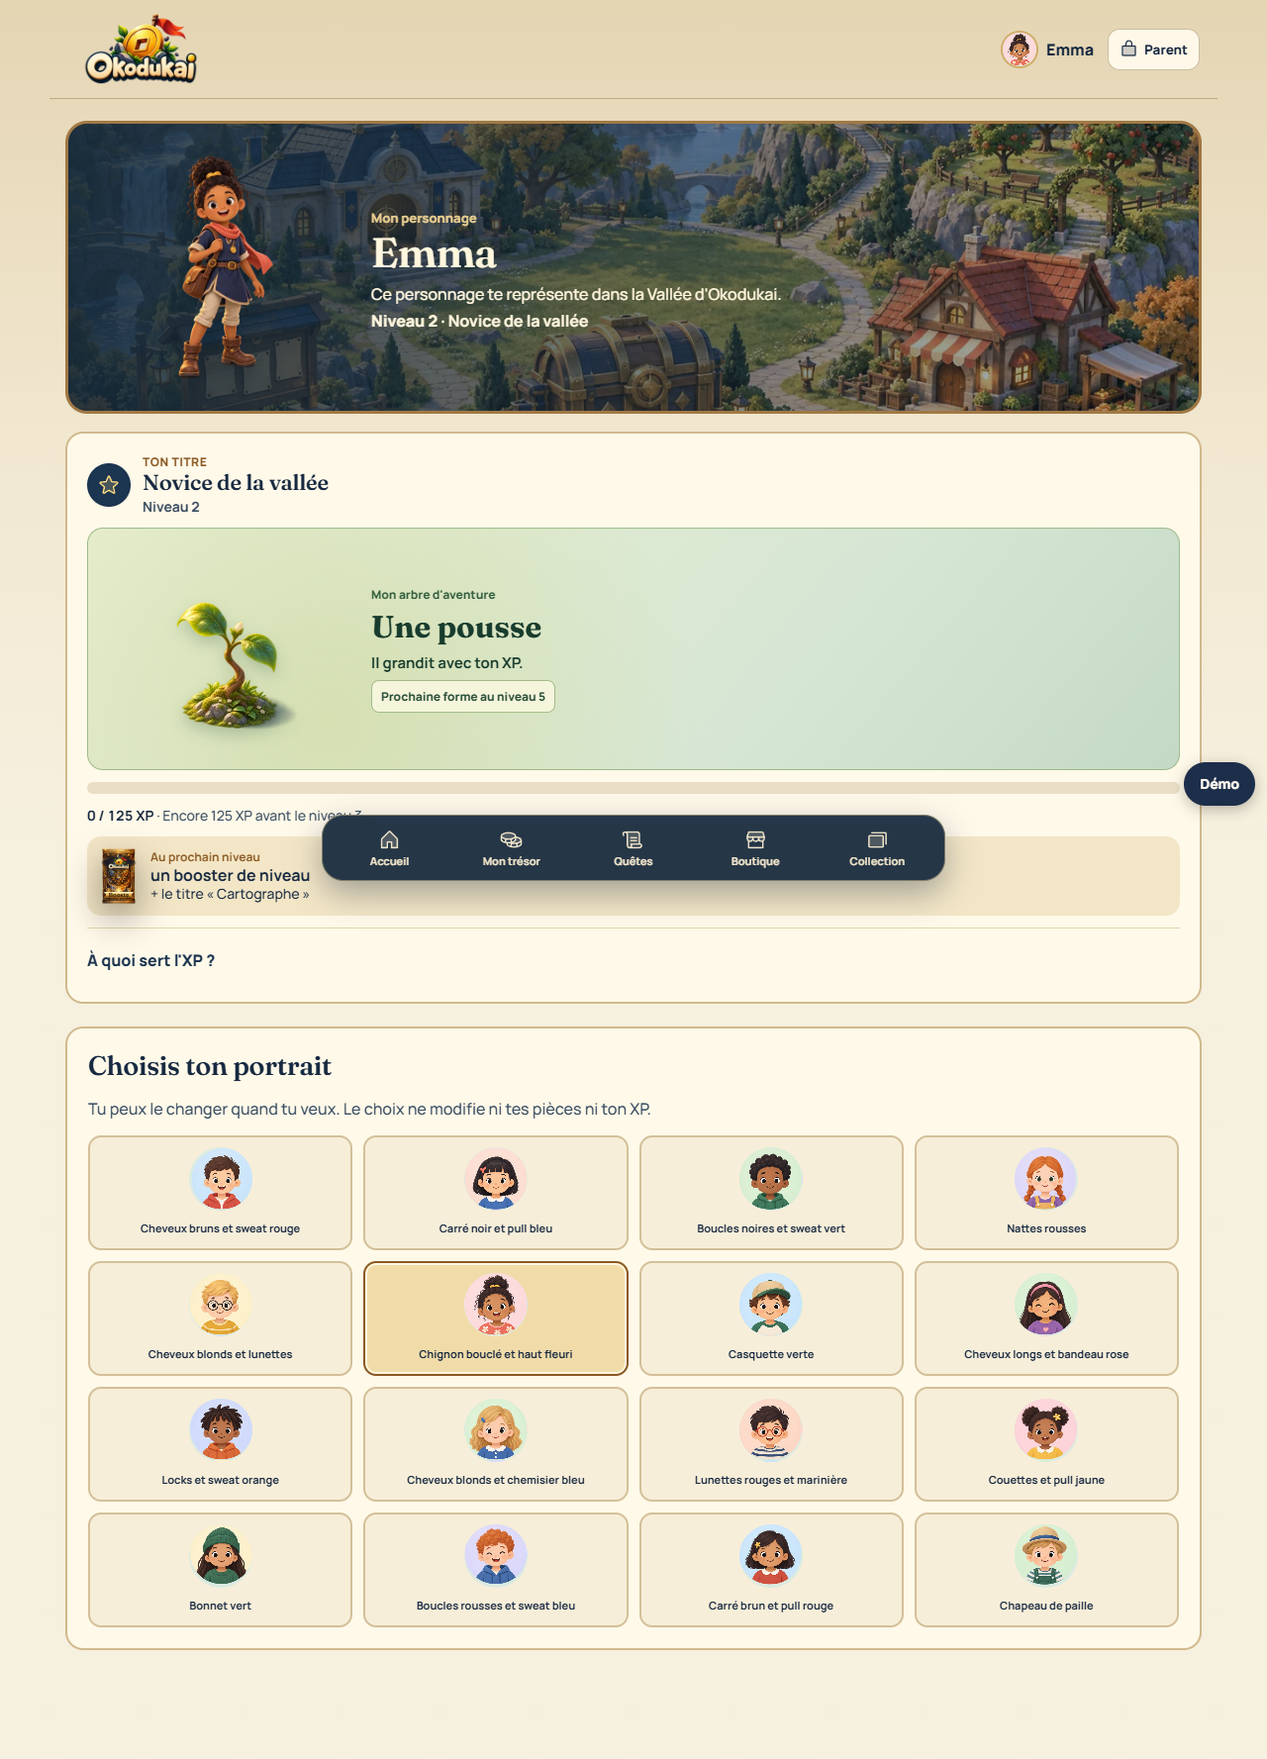
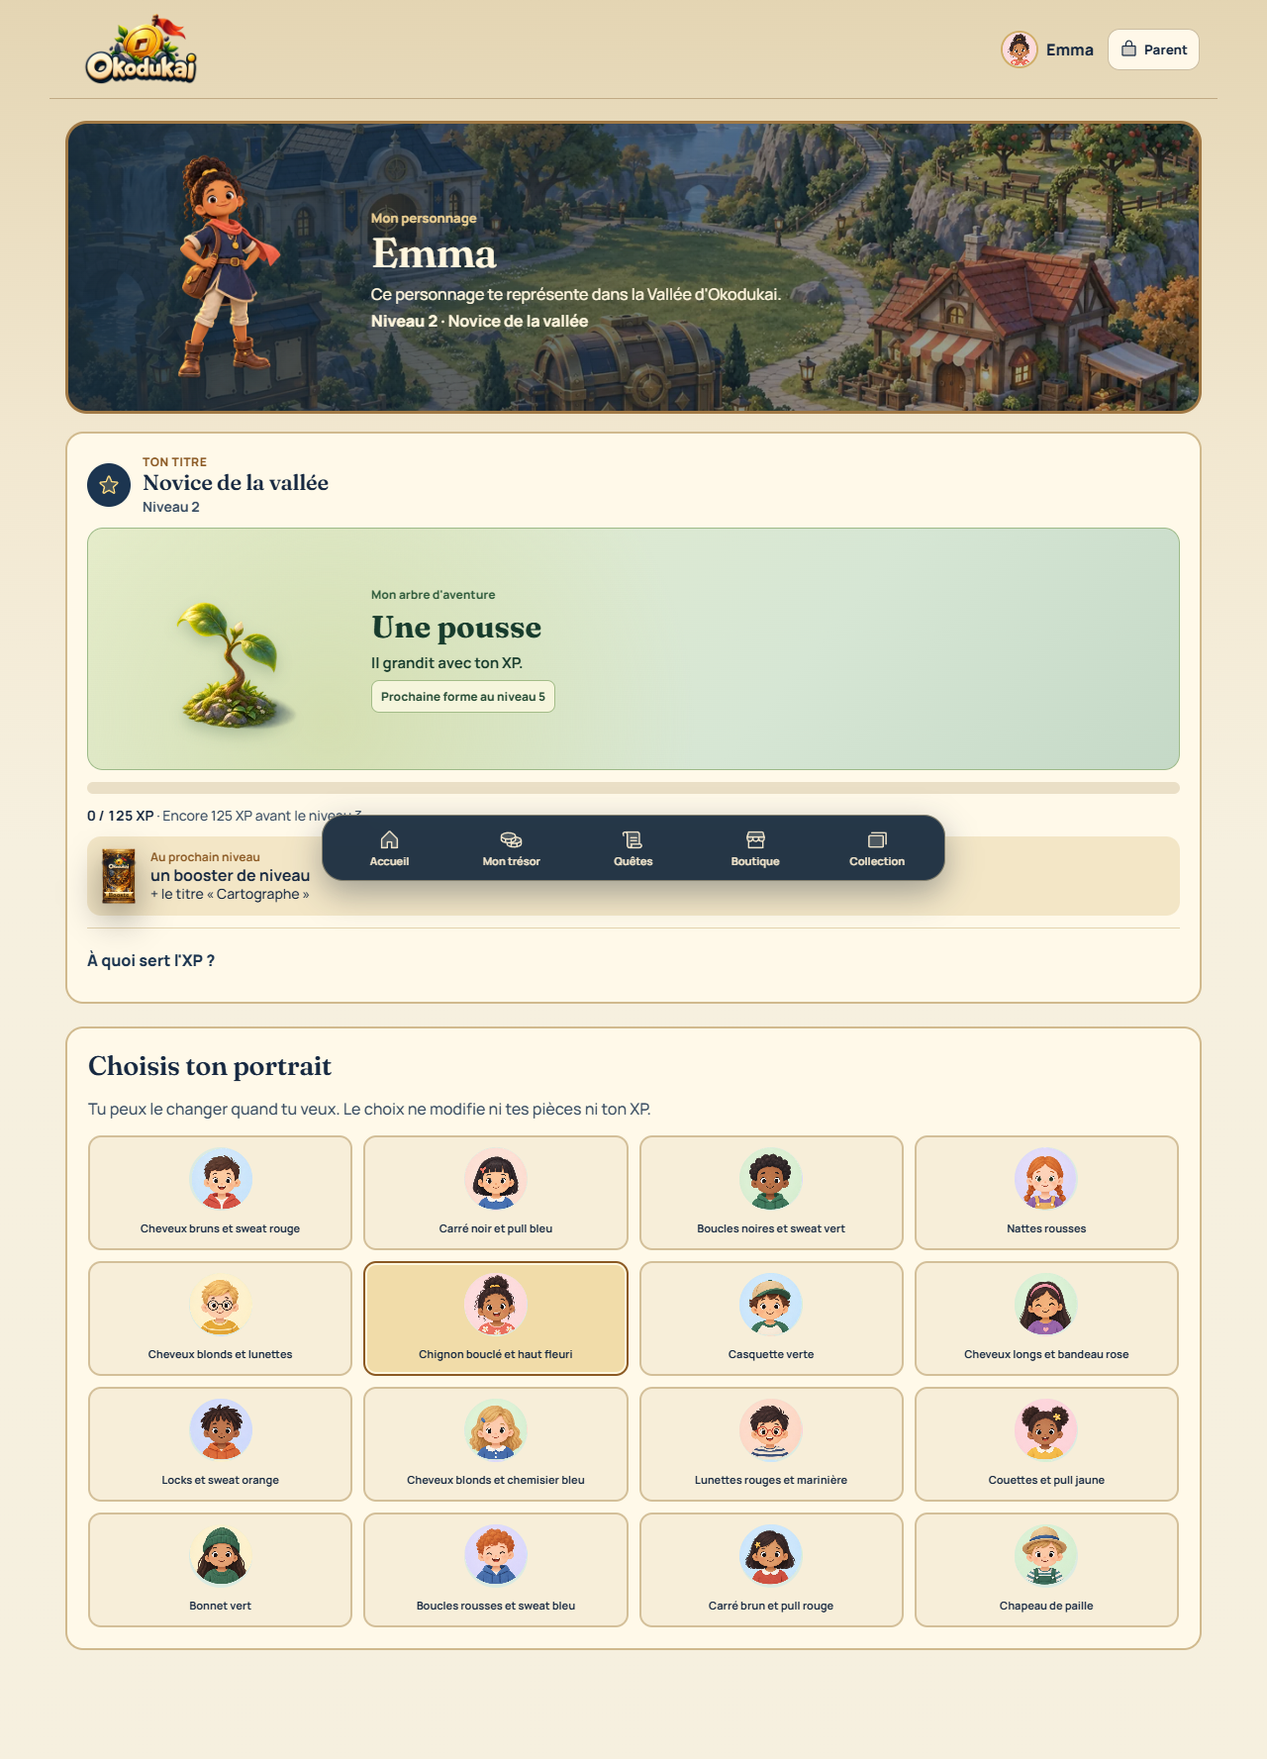
Add expressive child characters to village and lessons

Changed region(s): [[0.125, 0.0929, 0.2188, 0.2167], [0.9375, 0.4333, 1.0, 0.4643]]

diff --git a/apps/web/src/styles/child-world.css b/apps/web/src/styles/child-world.css
@@ -180,9 +180,13 @@
 .learning-module-copy { display: grid; gap: 4px; }
 .learning-module-copy strong { font: 700 22px/1.17 var(--font-display); color: var(--ink); }
 .learning-module-copy small { color: var(--ink-soft); font-weight: 700; }
-.learning-detail { max-width: 840px; margin-inline: auto; }
-.learning-detail-scene { width: 100%; max-height: 265px; object-fit: cover; border: 3px solid #a77a45; border-radius: 16px; }
-.learning-detail .card { border: 2px solid #bc9b66; background: #fff7e5; }
+.learning-detail { width: min(100%, 840px); margin-inline: auto; }
+.learning-detail-stage { position: relative; height: 300px; overflow: hidden; border: 3px solid #a77a45; border-radius: 18px; background: #203a4e; box-shadow: 0 10px 24px rgba(38, 44, 38, .18); }
+.learning-detail-stage::after { content: ''; position: absolute; inset: 0; pointer-events: none; background: linear-gradient(90deg, transparent 55%, rgba(19, 35, 47, .28)); }
+.learning-detail-scene { display: block; width: 100%; height: 100%; object-fit: cover; }
+.learning-detail-character { position: absolute; z-index: 1; right: 2%; bottom: -14px; width: 230px; height: 290px; object-fit: contain; object-position: bottom center; filter: drop-shadow(0 9px 8px rgba(16, 29, 37, .4)); }
+.learning-detail-character .avatar { width: 110px; height: 110px; }
+.learning-detail .card { width: min(100%, 700px); align-self: center; border: 2px solid #bc9b66; background: #fff7e5; }
 .lesson-head { position: relative; min-height: 86px; padding-left: 100px; overflow: hidden; }
 .lesson-head-art { position: absolute; left: 8px; top: 7px; width: 78px; height: 72px; object-fit: cover; border-radius: 8px; }
 
@@ -240,6 +244,9 @@
   .learning-module-art { width: 90px; height: 90px; }
   .learning-module-copy strong { font-size: 16px; }
   .learning-module .pill { grid-column: 2; justify-self: start; }
+  .learning-detail-stage { height: 225px; }
+  .learning-detail-character { right: -8px; bottom: -10px; width: 138px; height: 205px; }
+  .learning-detail-character .avatar { width: 80px; height: 80px; }
   .learn-page > .page-scene-title { min-height: 175px; padding: 10px; }
   .parent-child-dialog { padding: 14px; }
   .parent-child-option { align-items: start; flex-wrap: wrap; }

diff --git a/apps/web/src/pages/child/Profile.tsx b/apps/web/src/pages/child/Profile.tsx
@@ -32,7 +32,7 @@ export function Profile() {
   }
 
   return <div className="child-profile-page">
-    <header className="character-scene"><div className={session.child.avatarId === "aventurier-06" || session.child.avatarId === "aventurier-05" ? "character-portrait character-portrait--figure" : "character-portrait"}><ChildCharacter avatarId={session.child.avatarId} className="character-figure-art"/></div><div><p className="scene-kicker">{t.kicker}</p><h1>{session.child.displayName}</h1><p>{t.intro}</p>{level && <p className="character-level-line"><strong>{t.level} {level.level}</strong>{levelTitle(level) && <span> · {levelTitle(level)}</span>}</p>}</div></header>
+    <header className="character-scene"><div className={session.child.avatarId === "aventurier-06" || session.child.avatarId === "aventurier-05" ? "character-portrait character-portrait--figure" : "character-portrait"}><ChildCharacter avatarId={session.child.avatarId} pose="proud" className="character-figure-art"/></div><div><p className="scene-kicker">{t.kicker}</p><h1>{session.child.displayName}</h1><p>{t.intro}</p>{level && <p className="character-level-line"><strong>{t.level} {level.level}</strong>{levelTitle(level) && <span> · {levelTitle(level)}</span>}</p>}</div></header>
     {level && <div id="xp" className="character-xp"><XpGuide level={level} /></div>}
     <section className="character-wardrobe" aria-labelledby="wardrobe-title"><div className="section-heading"><h2 id="wardrobe-title">{t.choose}</h2></div><p>{t.help}</p>{error && <p className="form-error" role="alert">{error}</p>}<div className="character-roster">{AVAILABLE_AVATARS.map((avatarId, index) => <button className={session.child.avatarId === avatarId ? "character-choice character-choice--selected" : "character-choice"} type="button" key={avatarId} disabled={saving} onClick={() => void choose(avatarId)} aria-label={avatarLabels[index]} aria-pressed={session.child.avatarId === avatarId}><Avatar avatarId={avatarId} /><span>{avatarLabels[index]}</span></button>)}</div></section>
   </div>;

diff --git a/apps/web/src/pages/child/Home.tsx b/apps/web/src/pages/child/Home.tsx
@@ -93,7 +93,7 @@ export function Home() {
         <picture className="village-landscape" aria-hidden="true"><source media="(max-width: 640px)" srcSet="/assets/backgrounds/child-hub-tall-720.webp 720w, /assets/backgrounds/child-hub-tall-1080.webp 1080w" sizes="100vw"/><img src="/assets/backgrounds/child-hub-wide-1280.webp" srcSet="/assets/backgrounds/child-hub-wide-1280.webp 1280w, /assets/backgrounds/child-hub-wide-1920.webp 1920w" sizes="(max-width: 1180px) 100vw, 1180px" alt="" fetchPriority="high" /></picture>
         <span className="village-light" aria-hidden="true" />
         {places.map((place) => <Link key={place.key} className={`village-place village-place--${place.key}`} to={place.to} aria-label={`${t.place[place.key][0]} : ${t.place[place.key][1]}`}><span className="village-place-icon"><GameIcon name={place.icon} size={21}/></span><span className="village-place-label">{t.place[place.key][0]}</span>{place.key === "observatory" && statementReady && <span className="village-place-alert">{t.statement}</span>}</Link>)}
-        <Link to="/enfant/profil" className="village-character" aria-label={t.seeCharacter}><ChildCharacter avatarId={session.child.avatarId} className="village-character-art"/><span>{t.character}</span></Link>
+        <Link to="/enfant/profil" className="village-character" aria-label={t.seeCharacter}><ChildCharacter avatarId={session.child.avatarId} pose="happy" className="village-character-art"/><span>{t.character}</span></Link>
       </nav>
     </section>
     <div className="village-dispatch" aria-label={t.happening}>

diff --git a/apps/web/src/pages/child/Learn.tsx b/apps/web/src/pages/child/Learn.tsx
@@ -5,6 +5,7 @@ import { GameIcon } from "../../components/GameIcon";
 import { Lessons } from "../../components/invest/Lessons";
 import { Carnet } from "../../components/finance/Carnet";
 import { ObjectArt } from "../../art/ObjectArt";
+import { ChildCharacter } from "../../components/ChildCharacter";
 import { useAuth } from "../../lib/AuthContext";
 import { defineCopy, useCopy } from "../../i18n";
 
@@ -111,7 +112,10 @@ export function Learn() {
   if (active) {
     return (
       <div className="stack learning-detail">
-        <LearningScene code={active.code} subtitle={active.subtitle} className="learning-detail-scene" />
+        <div className="learning-detail-stage">
+          <LearningScene code={active.code} subtitle={active.subtitle} className="learning-detail-scene" />
+          {session?.kind === "child" && <ChildCharacter avatarId={session.child.avatarId} pose={step === "situation" ? "discovery" : step === "done" ? "proud" : "thinking"} className="learning-detail-character" />}
+        </div>
         <div className="card">
           <p className="text-sm text-faint">{active.subtitle}</p>
           <h1 className="font-display" style={{ fontSize: 22, marginBottom: 16 }}>

diff --git a/apps/web/src/components/ChildCharacter.tsx b/apps/web/src/components/ChildCharacter.tsx
@@ -1,7 +1,9 @@
 import { Avatar } from "./Avatar";
 
-/** Two illustrated poses are matched to their roster portraits; all other portraits remain selectable. */
-export function ChildCharacter({ avatarId, pose = "idle", className = "" }: { avatarId: string; pose?: "idle" | "victory"; className?: string }) {
+/** Illustrated expressions for the two featured characters; other portraits remain selectable. */
+export type CharacterPose = "idle" | "happy" | "proud" | "thinking" | "victory" | "discovery";
+
+export function ChildCharacter({ avatarId, pose = "idle", className = "" }: { avatarId: string; pose?: CharacterPose; className?: string }) {
   const character = avatarId === "aventurier-06" ? "emma" : avatarId === "aventurier-05" ? "lucas" : null;
   if (!character) return <span className={className}><Avatar avatarId={avatarId} size="lg" /></span>;
   return <img

diff --git a/docs/RESTE_A_FAIRE.md b/docs/RESTE_A_FAIRE.md
@@ -16,7 +16,7 @@
 - Reprise de 04 h 05 : galerie, chambre du trésor, observatoire, bibliothèque et échoppe disposent de décors distincts. Deux personnages en pied avec poses repos/victoire, quatre illustrations de récompenses et quatre scènes pédagogiques sont intégrés. Les sources PNG et le script `apps/web/scripts/optimize-child-art.mjs` sont versionnés ; les WebP sont servis en tailles adaptées.
 - Journal de quêtes illustré, bibliothèque et leçons visuelles, échoppe à objets, personnage sur la place et dans le profil. Les nouvelles chaînes du hub, du journal, de la boutique, du profil, du PIN et du passage parent/enfant ont une version française et anglaise.
 - Revue en navigateur à 375, 768 et 1280 px ; les captures sont dans `docs/screenshots/child-*`. Les plaques de la place ne sont plus cachées par la navigation ; nom complet dans le HUD mobile et quatre onglets d'argent visibles. `docs/CHILD_UI_REDESIGN.md`, `CHILD_MOTION.md` et `CHILD_DESIGN_AUDIT.md` décrivent les décisions et limites.
-- Restent pour une complétude graphique stricte : poses heureux/fier/réflexion/découverte et personnages en pied pour les 14 autres portraits, calques visuels des paliers 5/10/20/30 et objets uniques pour les objectifs libres dont le titre n'est connu qu'à la création. Le registre de compte et le chemin illustré des objectifs sont livrés. Les contenus rédigés par le foyer restent dans leur langue d'origine. Le catalogue d'images de cartes existant reste inchangé.
+- Emma et Lucas disposent désormais chacun des six poses prévues, utilisées sur la place, le profil, dans les leçons et à la validation. Les détails des leçons ont été vérifiés en capture à 375/768/1280 px. Restent pour une complétude graphique stricte : personnages en pied pour les 14 autres portraits, calques visuels des paliers 5/10/20/30 et objets uniques pour les objectifs libres dont le titre n'est connu qu'à la création. Le registre de compte et le chemin illustré des objectifs sont livrés. Les contenus rédigés par le foyer restent dans leur langue d'origine. Le catalogue d'images de cartes existant reste inchangé.
 - Les vues d'album reprennent le décor de galerie ; les états vides du compte, de l'historique et des cartes montrent des objets illustrés. Les captures 375/768/1280 de collection et d'album sont dans `docs/screenshots/child-experience-*`. Le dernier coup sur le cristal du booster annonce correctement la rupture.
 - Accueil enfant remplacé par la Vallée d’Okodukai, avec fonds WebP distincts pour ordinateur et mobile, lieux cliquables, HUD et accès aux quêtes. Un profil enfant permet de choisir un avatar du roster existant.
 - Le parent peut définir un PIN parent, passer sur l’espace d’un enfant sur le même téléphone, puis revenir avec ce PIN. Il peut aussi créer un lien à usage unique valable 24 h pour le téléphone personnel de l’enfant ; l’enfant entre son PIN habituel. Le lien ne donne jamais accès au compte parent.

diff --git a/docs/ASSET_REGISTRY.md b/docs/ASSET_REGISTRY.md
@@ -32,7 +32,7 @@ code du dépôt (aucune banque d'images, aucun modèle génératif externe, aucu
 | Village enfant | `backgrounds/child-hub-{wide,tall}-*.webp` | Illustration générée pour la Vallée d'Okodukai, source panoramique et source verticale dans `apps/web/art/source/child/` et dossier original de génération | Sources PNG + script d'optimisation du premier lot | 2026-09-27 |
 | Cinq lieux intérieurs | `backgrounds/child-{gallery,observatory,library,shop}-interior-{1280,1920}.webp`, `backgrounds/child-savings-chamber-{1280,1920}.webp` | Génération d'images à partir de la vallée de référence ; sélection visuelle, la première échoppe avec faux caractères a été rejetée. PNG dans `apps/web/art/source/child/` | `node apps/web/scripts/optimize-child-art.mjs` | 2026-09-27 |
 | Registre de compte | `backgrounds/child-registry-interior-{1280,1920}.webp` | Intérieur généré avec la vallée comme référence visuelle ; zone sombre à gauche et registre de cuir à droite. Source `art/source/child/registry-interior.png` | `node apps/web/scripts/optimize-child-art.mjs` | 2026-09-27 |
-| Emma et Lucas en pied | `characters/adventurer-{emma,lucas}-{idle,victory}-{256,512,768}.webp` | Génération d'images avec portrait du roster comme référence ; repos et victoire, contrôlés visuellement. PNG dans `apps/web/art/source/child/` | `node apps/web/scripts/optimize-child-art.mjs` | 2026-09-27 |
+| Emma et Lucas en pied | `characters/adventurer-{emma,lucas}-{idle,happy,proud,thinking,victory,discovery}-{256,512,768}.webp` | Génération d'images avec portrait du roster comme référence ; six poses cohérentes par personnage, contrôlées visuellement. PNG dans `apps/web/art/source/child/` | `node apps/web/scripts/optimize-child-art.mjs` | 2026-09-27 |
 | Récompenses familiales | `rewards/reward-{cinema,icecream,bicycle,family-game}-{256,512}.webp` | Objets générés sur fond transparent ; contrôlés puis reliés à des titres de récompenses par `RewardArt.tsx`. PNG dans `apps/web/art/source/child/` | `node apps/web/scripts/optimize-child-art.mjs` | 2026-09-27 |
 | Scènes pédagogiques | `learning/learning-{diversification,inflation,risk,compound}-{320,640}.webp` | Planche de quatre scènes générée pour la vallée puis découpée sur ses gouttières ; PNG dans `apps/web/art/source/child/` | `node apps/web/scripts/optimize-child-art.mjs` | 2026-09-27 |
 | Arbre d'aventure (5 formes) | `experience/xp-tree-{sprout,sapling,young,flowering,mature}-{256,512}.webp` | Grand arbre généré puis quatre formes dérivées de la même référence ; lumière, tronc, feuilles et base contrôlés. Sources PNG dans `apps/web/art/source/child/` | `node apps/web/scripts/optimize-child-art.mjs` | 2026-09-27 |

diff --git a/docs/CHILD_UI_REDESIGN.md b/docs/CHILD_UI_REDESIGN.md
@@ -30,7 +30,7 @@ Depuis l'espace parent, **Espace enfant** ouvre le choix d'un profil. Pour prêt
 - À 768 px, le panorama montre les six bâtiments et les panneaux de contenu restent limités en largeur.
 - À 1280 px, le monde remplit une grande scène sans étirer les fiches de lecture. La navigation flotte au bas de la fenêtre, sans couvrir les plaques du village.
 - Les actions ont au moins 44 px ; le focus est visible. Les animations s'arrêtent avec `prefers-reduced-motion`.
-- L'arbre, le profil, le registre, un objectif du coffre, la collection et ses albums ont été capturés aux trois largeurs dans `docs/screenshots/child-experience-*` ; la capture est régénérable par `node apps/web/scripts/capture-child-experience.mjs` avec Chrome local. Les chargements enfant montrent le sablier illustré, sans spinner bloquant.
+- L'arbre, le profil, le registre, un objectif du coffre, la collection, ses albums et la bibliothèque ont été capturés aux trois largeurs dans `docs/screenshots/child-experience-*` ; la capture est régénérable par `node apps/web/scripts/capture-child-experience.mjs` avec Chrome local. Les chargements enfant montrent le sablier illustré, sans spinner bloquant.
 
 ## Langue et contenu
 
@@ -38,4 +38,4 @@ Les nouveaux textes de l'accueil, de la navigation, du journal, de la boutique, 
 
 ## Suite prévue
 
-Les 16 portraits sont disponibles, mais seuls Emma (`aventurier-06`) et Lucas (`aventurier-05`) disposent aujourd'hui de personnages de plein pied, en repos et en victoire. Les autres choix affichent leur portrait. Les cinq paliers du village sont sélectionnés par le niveau mais partagent encore le même décor ; les calques de progression et les poses supplémentaires sont des enrichissements graphiques futurs. Aucun effet de progression fictif n'est affiché.
+Les 16 portraits sont disponibles. Emma (`aventurier-06`) et Lucas (`aventurier-05`) disposent chacun des six poses cohérentes prévues : repos, heureux, fier, réflexion, victoire et découverte. La place montre la pose heureuse, le profil la pose fière et les étapes de leçon passent de découverte à réflexion puis fier ; la validation de quête utilise victoire. Les 14 autres choix affichent leur portrait. Les cinq paliers du village sont sélectionnés par le niveau mais partagent encore le même décor ; les calques de progression restent à produire. Aucun effet de progression fictif n'est affiché.

diff --git a/docs/CHILD_DESIGN_AUDIT.md b/docs/CHILD_DESIGN_AUDIT.md
@@ -22,6 +22,7 @@
 - 1280 px : `screenshots/child-home-desktop-1280.png`, `child-observatory-desktop-1280.png`.
 - 375, 768 et 1280 px : `screenshots/child-experience-{home,profile,account,goal}-*.png`, régénérables par `node apps/web/scripts/capture-child-experience.mjs`.
 - 375, 768 et 1280 px : `screenshots/child-experience-{collection,album,album-empty}-*.png`. L'album possède maintenant la salle aux lanternes jusque dans la vue d'un univers ; les filtres vides montrent une bibliothèque et une consigne adaptée.
+- 375, 768 et 1280 px : `screenshots/child-experience-{learning-list,learning-detail}-*.png`. Les six poses d'Emma et de Lucas sont disponibles ; la scène de leçon affiche découverte, réflexion ou fierté selon l'étape. Le décor et le texte restent lisibles sur téléphone, tablette et ordinateur.
 
 Les captures viennent du foyer local de démonstration ; le bouton « Démo » n'apparaît pas en production. Le contrôle a aussi porté sur le dialogue PIN à 375 px, sa fermeture par Échap et l'absence de débordement horizontal sur les principaux écrans.
 
@@ -50,4 +51,4 @@ Les captures viennent du foyer local de démonstration ; le bouton « Démo » n
 
 ## Limites constatées
 
-Les personnages de plein pied couvrent deux portraits et deux poses chacun. Les autres portraits restent des avatars. Les paliers visuels 5/10/20/30 utilisent encore la scène de base. Les contenus éditoriaux du foyer et du seed restent en français. Ces limites sont consignées dans `CHILD_UI_REDESIGN.md` et `CHILD_ASSET_PLAN.md` ; elles ne changent ni les soldes, ni les protections parentales.
+Les personnages de plein pied couvrent deux portraits et six poses chacun. Les 14 autres portraits restent des avatars. Les paliers visuels 5/10/20/30 utilisent encore la scène de base. Les contenus éditoriaux du foyer et du seed restent en français. Ces limites sont consignées dans `CHILD_UI_REDESIGN.md` et `CHILD_ASSET_PLAN.md` ; elles ne changent ni les soldes, ni les protections parentales.

diff --git a/docs/CHILD_ASSET_PLAN.md b/docs/CHILD_ASSET_PLAN.md
@@ -15,7 +15,8 @@ Le registre des fichiers livrés et de leur provenance est `ASSET_REGISTRY.md`. 
 | `bookshelf-{128,256,512}.webp` | Bibliothèque | WebP transparent | Trois-quarts | P2 | Livré, réemploi |
 | `adventurer-{emma,lucas}-idle-{256,512,768}.webp` | Place, profil | WebP transparent | Personnages du roster en pied | P1 | Livré |
 | `adventurer-{emma,lucas}-victory-{256,512,768}.webp` | Validation de quête | WebP transparent | Même personnage et caméra | P1 | Livré |
-| Poses heureux, fier, réflexion, découverte ; 14 autres personnages | Profil et moments de jeu | WebP transparent 512 | Même personnage et caméra | P1 | À produire |
+| `adventurer-{emma,lucas}-{happy,proud,thinking,discovery}-{256,512,768}.webp` | Place, profil et leçons | WebP transparent, trois tailles | Même personnage, tenue et caméra que les poses existantes | P1 | Livré |
+| Personnages en pied pour les 14 autres portraits | Profil et moments de jeu | WebP transparent 512 | Fidèles au portrait choisi | P1 | À produire |
 | `reward-{cinema,icecream,bicycle,family-game}-{256,512}.webp` | Boutique, récompenses familiales | WebP transparent | Objets trois-quarts, palette du monde | P1 | Livré |
 | `quest-{habit,mission,major,booster}.webp` | Journal, type de quête | WebP transparent 256 | Objet sobre, sans texte | P1 | Variantes visuelles par objets existants livrées ; assets dédiés à produire |
 | `learning-{diversification,inflation,risk,compound}-{320,640}.webp` | Bibliothèque, mini scènes | WebP carré | Notions illustrées, même vallée | P2 | Livré |
